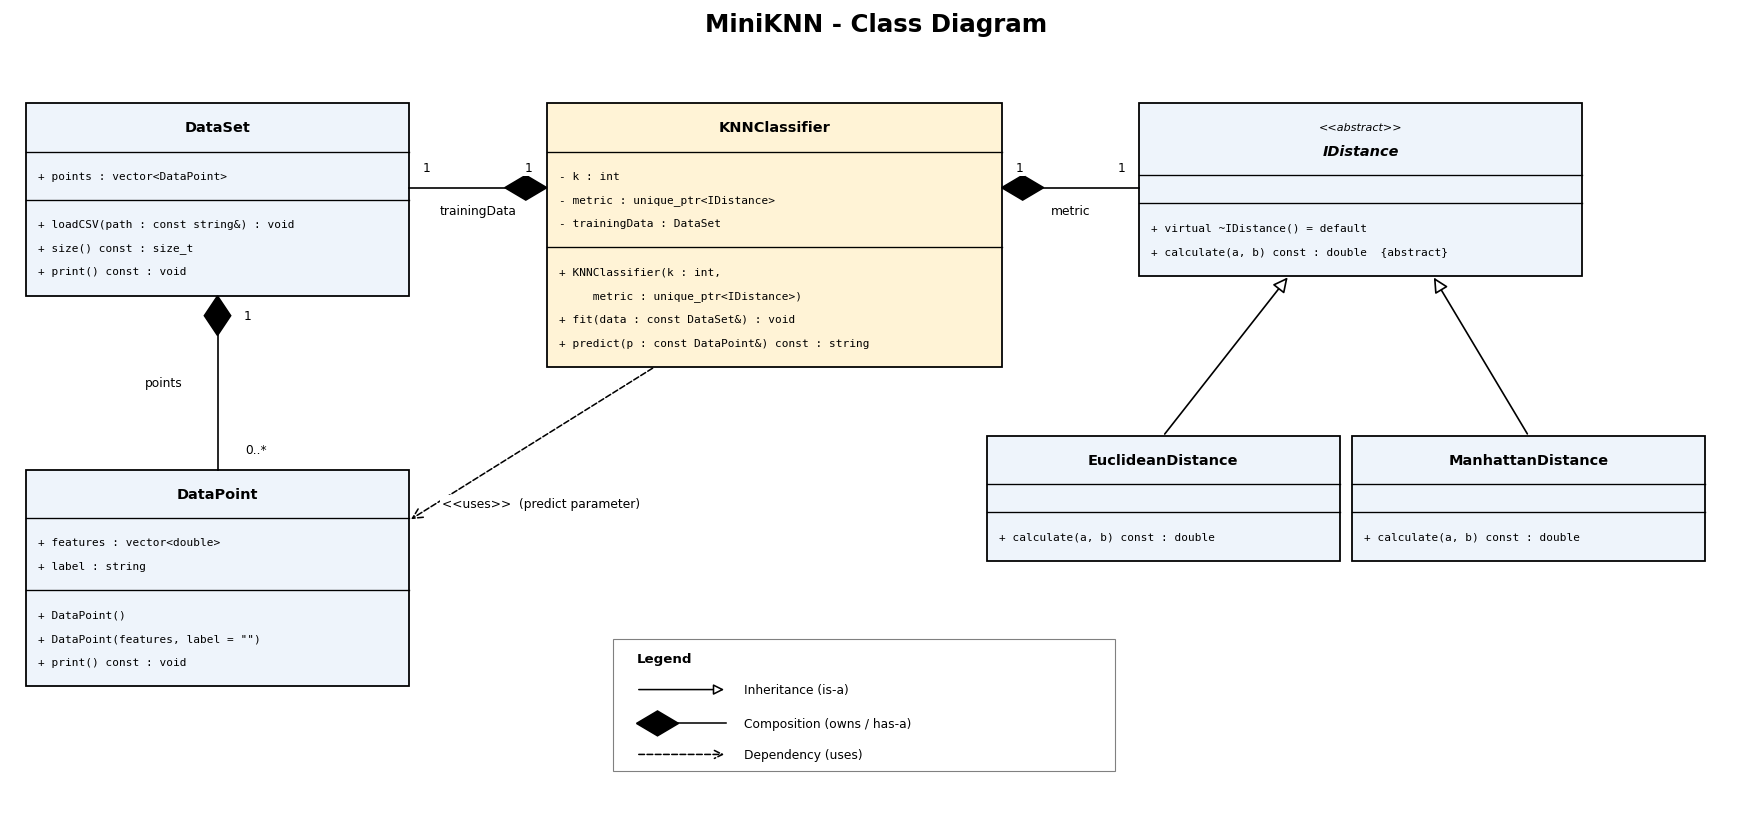
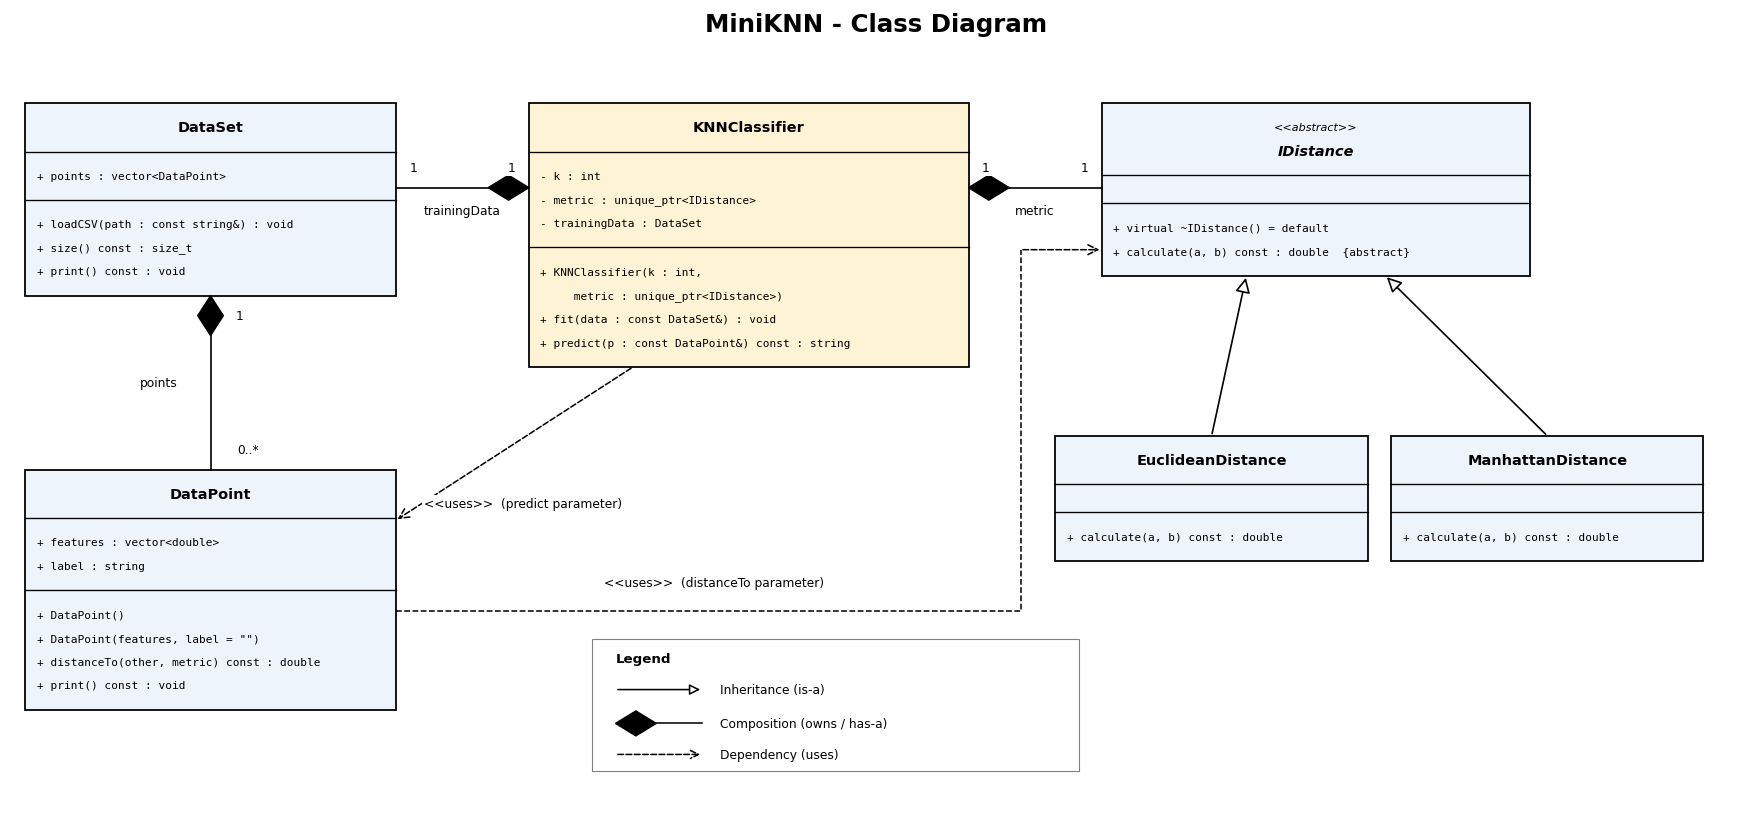
Update class diagram and README for DataPoint::distanceTo

diff --git a/README.md b/README.md
@@ -16,7 +16,7 @@ MiniKNN is a small C++ library that does this using object-oriented design. The 
 
 | Class | Role |
 |---|---|
-| `DataPoint` | One row of data: a `vector<double>` of features and a `string` label. |
+| `DataPoint` | One row of data: a `vector<double>` of features and a `string` label. `distanceTo(other, metric)` measures the distance to another point using any `IDistance`. |
 | `DataSet` | A collection of `DataPoint`s. Loads the Iris CSV file with `loadCSV(path)`. |
 | `IDistance` | Abstract interface for a distance metric: `calculate(a, b)`. |
 | `EuclideanDistance` | Implements `IDistance` using the straight-line distance. |
@@ -29,6 +29,7 @@ MiniKNN is a small C++ library that does this using object-oriented design. The 
 - `DataSet` owns many `DataPoint`s (composition).
 - `KNNClassifier` owns its `IDistance` metric and its training `DataSet` (composition).
 - `KNNClassifier::predict` uses a `DataPoint` as its input (dependency).
+- `DataPoint::distanceTo` uses an `IDistance` metric passed in as a parameter (dependency).
 
 The full diagram is in [`docs/class_diagram.png`](docs/class_diagram.png).
 
@@ -84,5 +85,3 @@ The program reads `data/iris.csv`, so run it from the project root folder.
 | Harsh Vaghasiya | Data layer: `DataPoint`, `DataSet`, `iris.csv` |
 | Deep Vekariya | Distance layer: `IDistance`, `EuclideanDistance`, `ManhattanDistance` |
 | Sanyam kocher | Classifier interface (`KNNClassifier.h`), class diagram, README |
-
-
